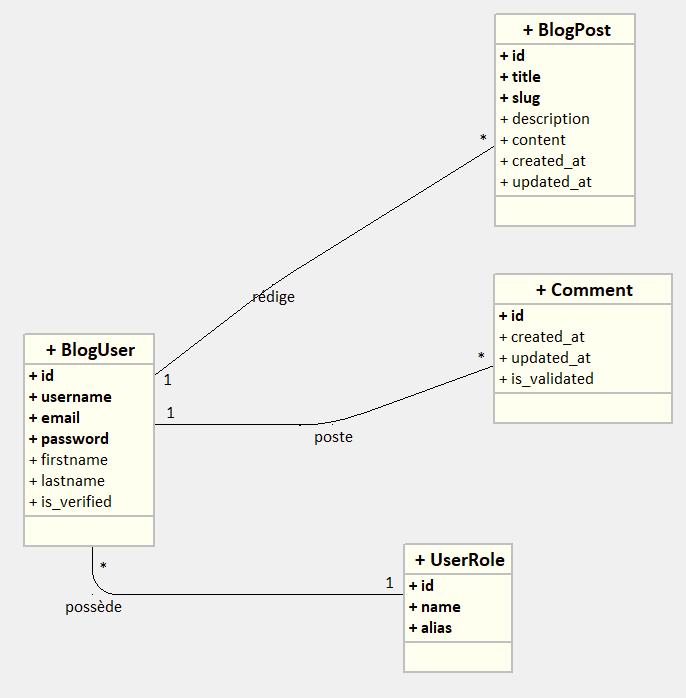
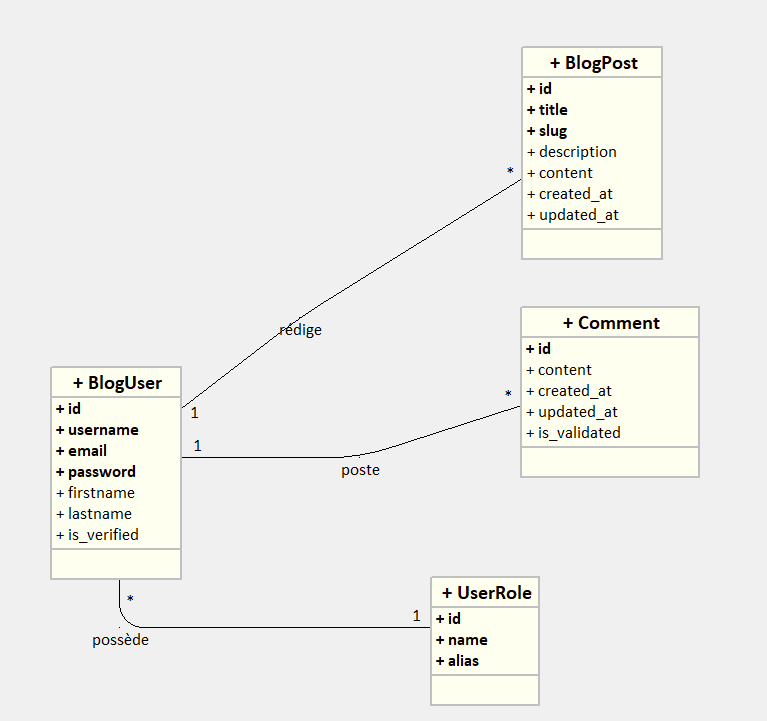
add: display the pagination of post comments

diff --git a/public/css/style.css b/public/css/style.css
@@ -168,10 +168,6 @@ nav a.nav-link {
 	margin-bottom: 5px;
 }
 
-.news .author:hover {
-	text-decoration: underline;
-}
-
 .news h2 {
 	color: inherit;
 	font-weight: 700;
@@ -215,8 +211,11 @@ nav a.nav-link {
 }
 
 .body {
-	padding: 0 10px;
+	padding: 10px;
 	margin-left: 20px;
+	background-color: rgba(237,237,237, 0.3);
+	border-radius: 8px;
+	border: 1px solid rgba(0,0,0,.125);
 }
 
 /* ===================== 

diff --git a/src/entity/Comment.php b/src/entity/Comment.php
@@ -8,40 +8,15 @@ use DateTime;
 
 final class Comment extends AbstractEntity
 {
-    private ?string $pseudo = null;
+    private ?BlogUser $author = null;
 
     private ?string $content = null;
 
     private ?DateTime $createdAt = null;
 
+    private ?DateTime $updatedAt = null;
+
     private ?BlogPost $post = null;
-
-    public function __construct()
-    {
-        $this->post = new BlogPost();
-    }
-
-    /**
-     * Get the value of pseudo.
-     *
-     * @return ?string
-     */
-    public function getPseudo(): ?string
-    {
-        return $this->pseudo;
-    }
-
-    /**
-     * Set the value of pseudo.
-     *
-     * @param ?string $pseudo
-     */
-    public function setPseudo(?string $pseudo): self
-    {
-        $this->pseudo = $pseudo;
-
-        return $this;
-    }
 
     /**
      * Get the value of content.
@@ -78,11 +53,41 @@ final class Comment extends AbstractEntity
     /**
      * Set the value of createdAt.
      *
-     * @param ?DateTime $createdAt
+     * @param DateTime|string|null $createdAt
      */
-    public function setCreatedAt(?DateTime $createdAt): self
+    public function setCreatedAt($createdAt): self
     {
-        $this->createdAt = $createdAt;
+        if ($createdAt instanceof DateTime) {
+            $this->createdAt = $createdAt;
+        } elseif (is_string($createdAt)) {
+            $this->createdAt = new DateTime($createdAt);
+        }
+
+        return $this;
+    }
+
+    /**
+     * Get the value of updatedAt.
+     *
+     * @return ?DateTime
+     */
+    public function getUpdatedAt(): ?DateTime
+    {
+        return $this->updatedAt;
+    }
+
+    /**
+     * Set the value of updatedAt.
+     *
+     * @param DateTime|string|null $updatedAt
+     */
+    public function setUpdatedAt($updatedAt): self
+    {
+        if ($updatedAt instanceof DateTime) {
+            $this->updatedAt = $updatedAt;
+        } elseif (is_string($updatedAt)) {
+            $this->updatedAt = new DateTime($updatedAt);
+        }
 
         return $this;
     }
@@ -92,6 +97,10 @@ final class Comment extends AbstractEntity
      */
     public function getPost(): ?BlogPost
     {
+        if (!$this->post) {
+            $this->post = new BlogPost();
+        }
+
         return $this->post;
     }
 
@@ -101,6 +110,34 @@ final class Comment extends AbstractEntity
     public function setPost(?BlogPost $post): self
     {
         $this->post = $post;
+
+        return $this;
+    }
+
+    /**
+     * Get the value of author
+     *
+     * @return ?BlogUser
+     */
+    public function getAuthor(): ?BlogUser
+    {
+        if (!$this->author) {
+            $this->author = new BlogUser();
+        }
+
+        return $this->author;
+    }
+
+    /**
+     * Set the value of author
+     *
+     * @param ?BlogUser $author
+     *
+     * @return self
+     */
+    public function setAuthor(?BlogUser $author): self
+    {
+        $this->author = $author;
 
         return $this;
     }

diff --git a/src/controller/ArticleController.php b/src/controller/ArticleController.php
@@ -5,48 +5,62 @@ declare(strict_types=1);
 namespace App\Controller;
 
 use App\Manager\BlogPostManager;
+use App\manager\CommentManager;
+use App\Service\Pagination;
 use GuzzleHttp\Psr7\ServerRequest;
 use Psr\Http\Message\ResponseInterface;
 
 class ArticleController extends AbstractController
 {
+    /**
+     * Displays the blog post listing.
+     */
     public function index(ServerRequest $request): ResponseInterface
     {
         $manager = $this->getPostManager();
-
         $link = (string) $request->getUri();
         $params = $request->getQueryParams();
-        $page = isset($params['page']) ? (int)$params['page'] : 1;
+        $page = isset($params['page']) ? (int) $params['page'] : 1;
         $pagination = $manager->findPaginated($link, $page);
 
         return $this->render('article/index.html.twig', [
             'pagination' => $pagination,
         ]);
     }
-    
+
+    /**
+     * Displays a post with its comments.
+     */
     public function show(ServerRequest $request): ResponseInterface
     {
         $slug = $request->getAttribute('slug');
-        $manager = $this->getPostManager();
-
-        $blogPost = $manager->findBySlug($slug);
+        $postManager = $this->getPostManager();
+        $blogPost = $postManager->findBySlug($slug);
 
         if (null === $blogPost) {
             $this->createNotFoundException("Cet article n'existe pas.");
         }
 
+        $commentPagination = $this->getPostComments($request, $blogPost->getId());
+
         return $this->render('article/show.html.twig', [
             'post' => $blogPost,
+            'commentPagination' => $commentPagination,
         ]);
     }
 
-    public function category(ServerRequest $request): ResponseInterface
+    /**
+     * Get a pagination of post comments.
+     */
+    private function getPostComments(ServerRequest $request, int $postId): Pagination
     {
-        $slug = $request->getAttribute('slug');
+        /** @var CommentManager */
+        $commentManager = $this->getManager(CommentManager::class);
+        $link = (string) $request->getUri();
+        $params = $request->getQueryParams();
+        $page = isset($params['page']) ? (int) $params['page'] : 1;
 
-        return $this->render('article/category.html.twig', [
-            'posts' => [],
-        ]);
+        return $commentManager->findPaginated($postId, $link, $page);
     }
 
     private function getPostManager(): BlogPostManager

diff --git a/src/manager/CommentManager.php b/src/manager/CommentManager.php
@@ -1,0 +1,28 @@
+<?php
+
+declare(strict_types=1);
+
+namespace App\manager;
+
+use App\Service\Paginator;
+use App\Service\Pagination;
+use App\Manager\AbstractManager;
+
+class CommentManager extends AbstractManager
+{
+    public function findPaginated(int $postId, string $link, int $page = 1): Pagination
+    {
+        $queryBuilder = $this->getQuery()
+            ->select('c.content', 'c.created_at', 'c.updated_at')
+            ->select('u.username AS author_username', 'u.id AS author_id')
+            ->leftJoin('blog_user u', 'u.id = c.author_id')
+            ->orderBy('c.created_at', 'DESC')
+            ->where('c.post_id = ?')
+            ->setParams([$postId])
+        ;
+
+        $paginator = new Paginator($queryBuilder, $this->getBuilder());
+
+        return $paginator->getPagination($link, $page, PER_PAGE);
+    }
+}

diff --git a/src/twig/PaginationExtension.php b/src/twig/PaginationExtension.php
@@ -4,7 +4,6 @@ declare(strict_types=1);
 
 namespace App\Twig;
 
-use App\router\Router;
 use App\Service\Pagination;
 use Twig\TwigFunction;
 use Twig\Extension\AbstractExtension;
@@ -18,8 +17,12 @@ class PaginationExtension extends AbstractExtension
         ];
     }
 
-    public function getPagination(Pagination $pagination): string
+    public function getPagination(?Pagination $pagination): string
     {
+        if (null === $pagination) {
+            return '';
+        }
+        
         $previous = $pagination->getPreviousLink();
         $next = $pagination->getNextLink();
         if($next === null && $previous === null) {

diff --git a/src/manager/BlogPostManager.php b/src/manager/BlogPostManager.php
@@ -13,7 +13,7 @@ final class BlogPostManager extends AbstractManager
     public function findPaginated(string $link, int $page = 1): Pagination
     {
         $queryBuilder = $this->getQuery()
-            ->select('b.title', 'b.slug', 'b.title', 'b.id', 'b.description', 'b.created_at', 'b.updated_at')
+            ->select('b.title', 'b.slug', 'b.id', 'b.description', 'b.created_at', 'b.updated_at')
             ->select('u.username AS author_username', 'u.id AS author_id')
             ->leftJoin('blog_user u', 'u.id = b.author_id')
             ->orderBy('b.updated_at', 'DESC')

diff --git a/src/controller/AbstractController.php b/src/controller/AbstractController.php
@@ -14,6 +14,7 @@ use App\Exception\NotFoundException;
 use App\exception\ForbiddenException;
 use App\Exception\BadRequestException;
 use App\Twig\PaginationExtension;
+use App\Twig\UserExtension;
 
 abstract class AbstractController
 {
@@ -31,6 +32,7 @@ abstract class AbstractController
         $this->twig = new Environment($loader);
         $this->twig->addExtension(new PathExtension($this->router));
         $this->twig->addExtension(new PaginationExtension());
+        $this->twig->addExtension(new UserExtension());
     }
 
     /**

diff --git a/src/twig/UserExtension.php b/src/twig/UserExtension.php
@@ -1,0 +1,24 @@
+<?php
+
+declare(strict_types=1);
+
+namespace App\Twig;
+
+use Twig\TwigFunction;
+use Twig\Extension\AbstractExtension;
+
+
+class UserExtension extends AbstractExtension
+{
+    public function getFunctions()
+    {
+        return [
+            new TwigFunction('has_role', [$this, 'hasRole'], ['is_safe' => ['html']]),
+        ];
+    }
+
+    public function hasRole(string $role):bool
+    {
+        return false;
+    }
+}

diff --git a/src/Service/Paginator.php b/src/Service/Paginator.php
@@ -24,6 +24,7 @@ class Paginator {
     {
         $countSQL = $this->queryBuilder->count($this->queryBuilder->getAlias() . '.id');
         $this->numberItems = $this->statementBuilder->fetch($countSQL, $this->queryBuilder->getParams(), 'num')[0];
+
         $this->perPage = $perPage; 
         $this->totalPage = ceil($this->numberItems / $this->perPage);
         $this->current = $this->setCurrent((int)$current);
